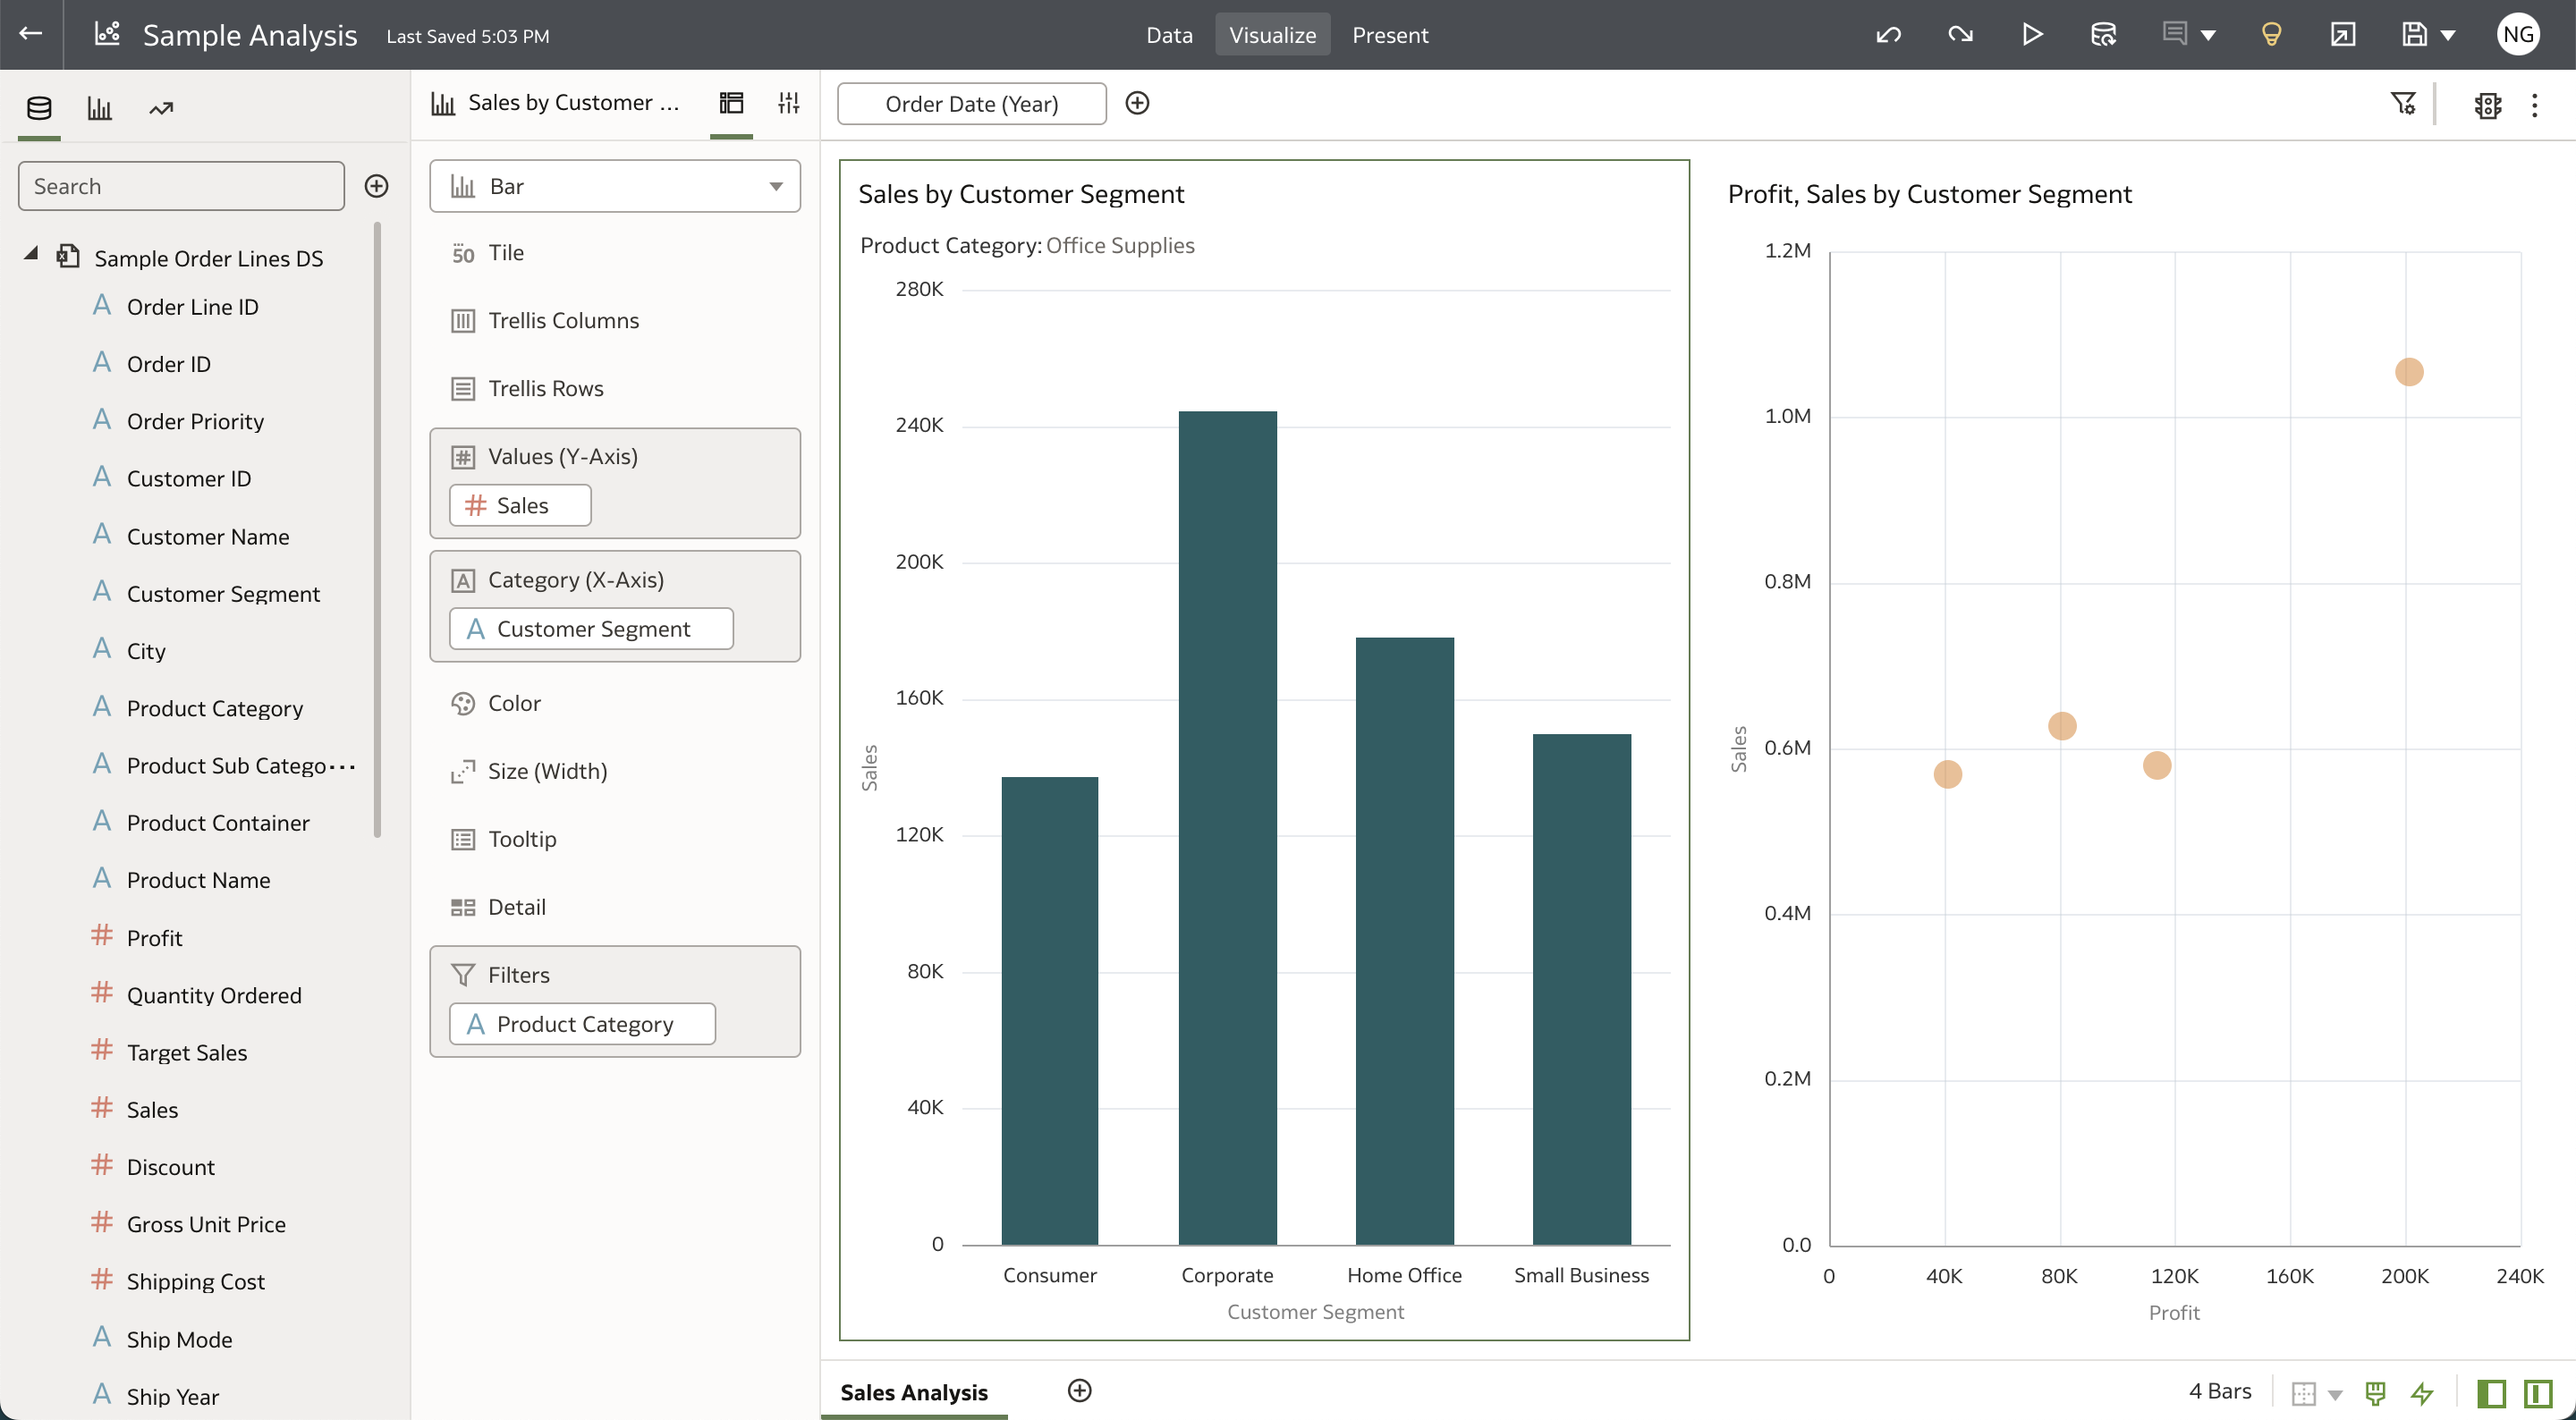
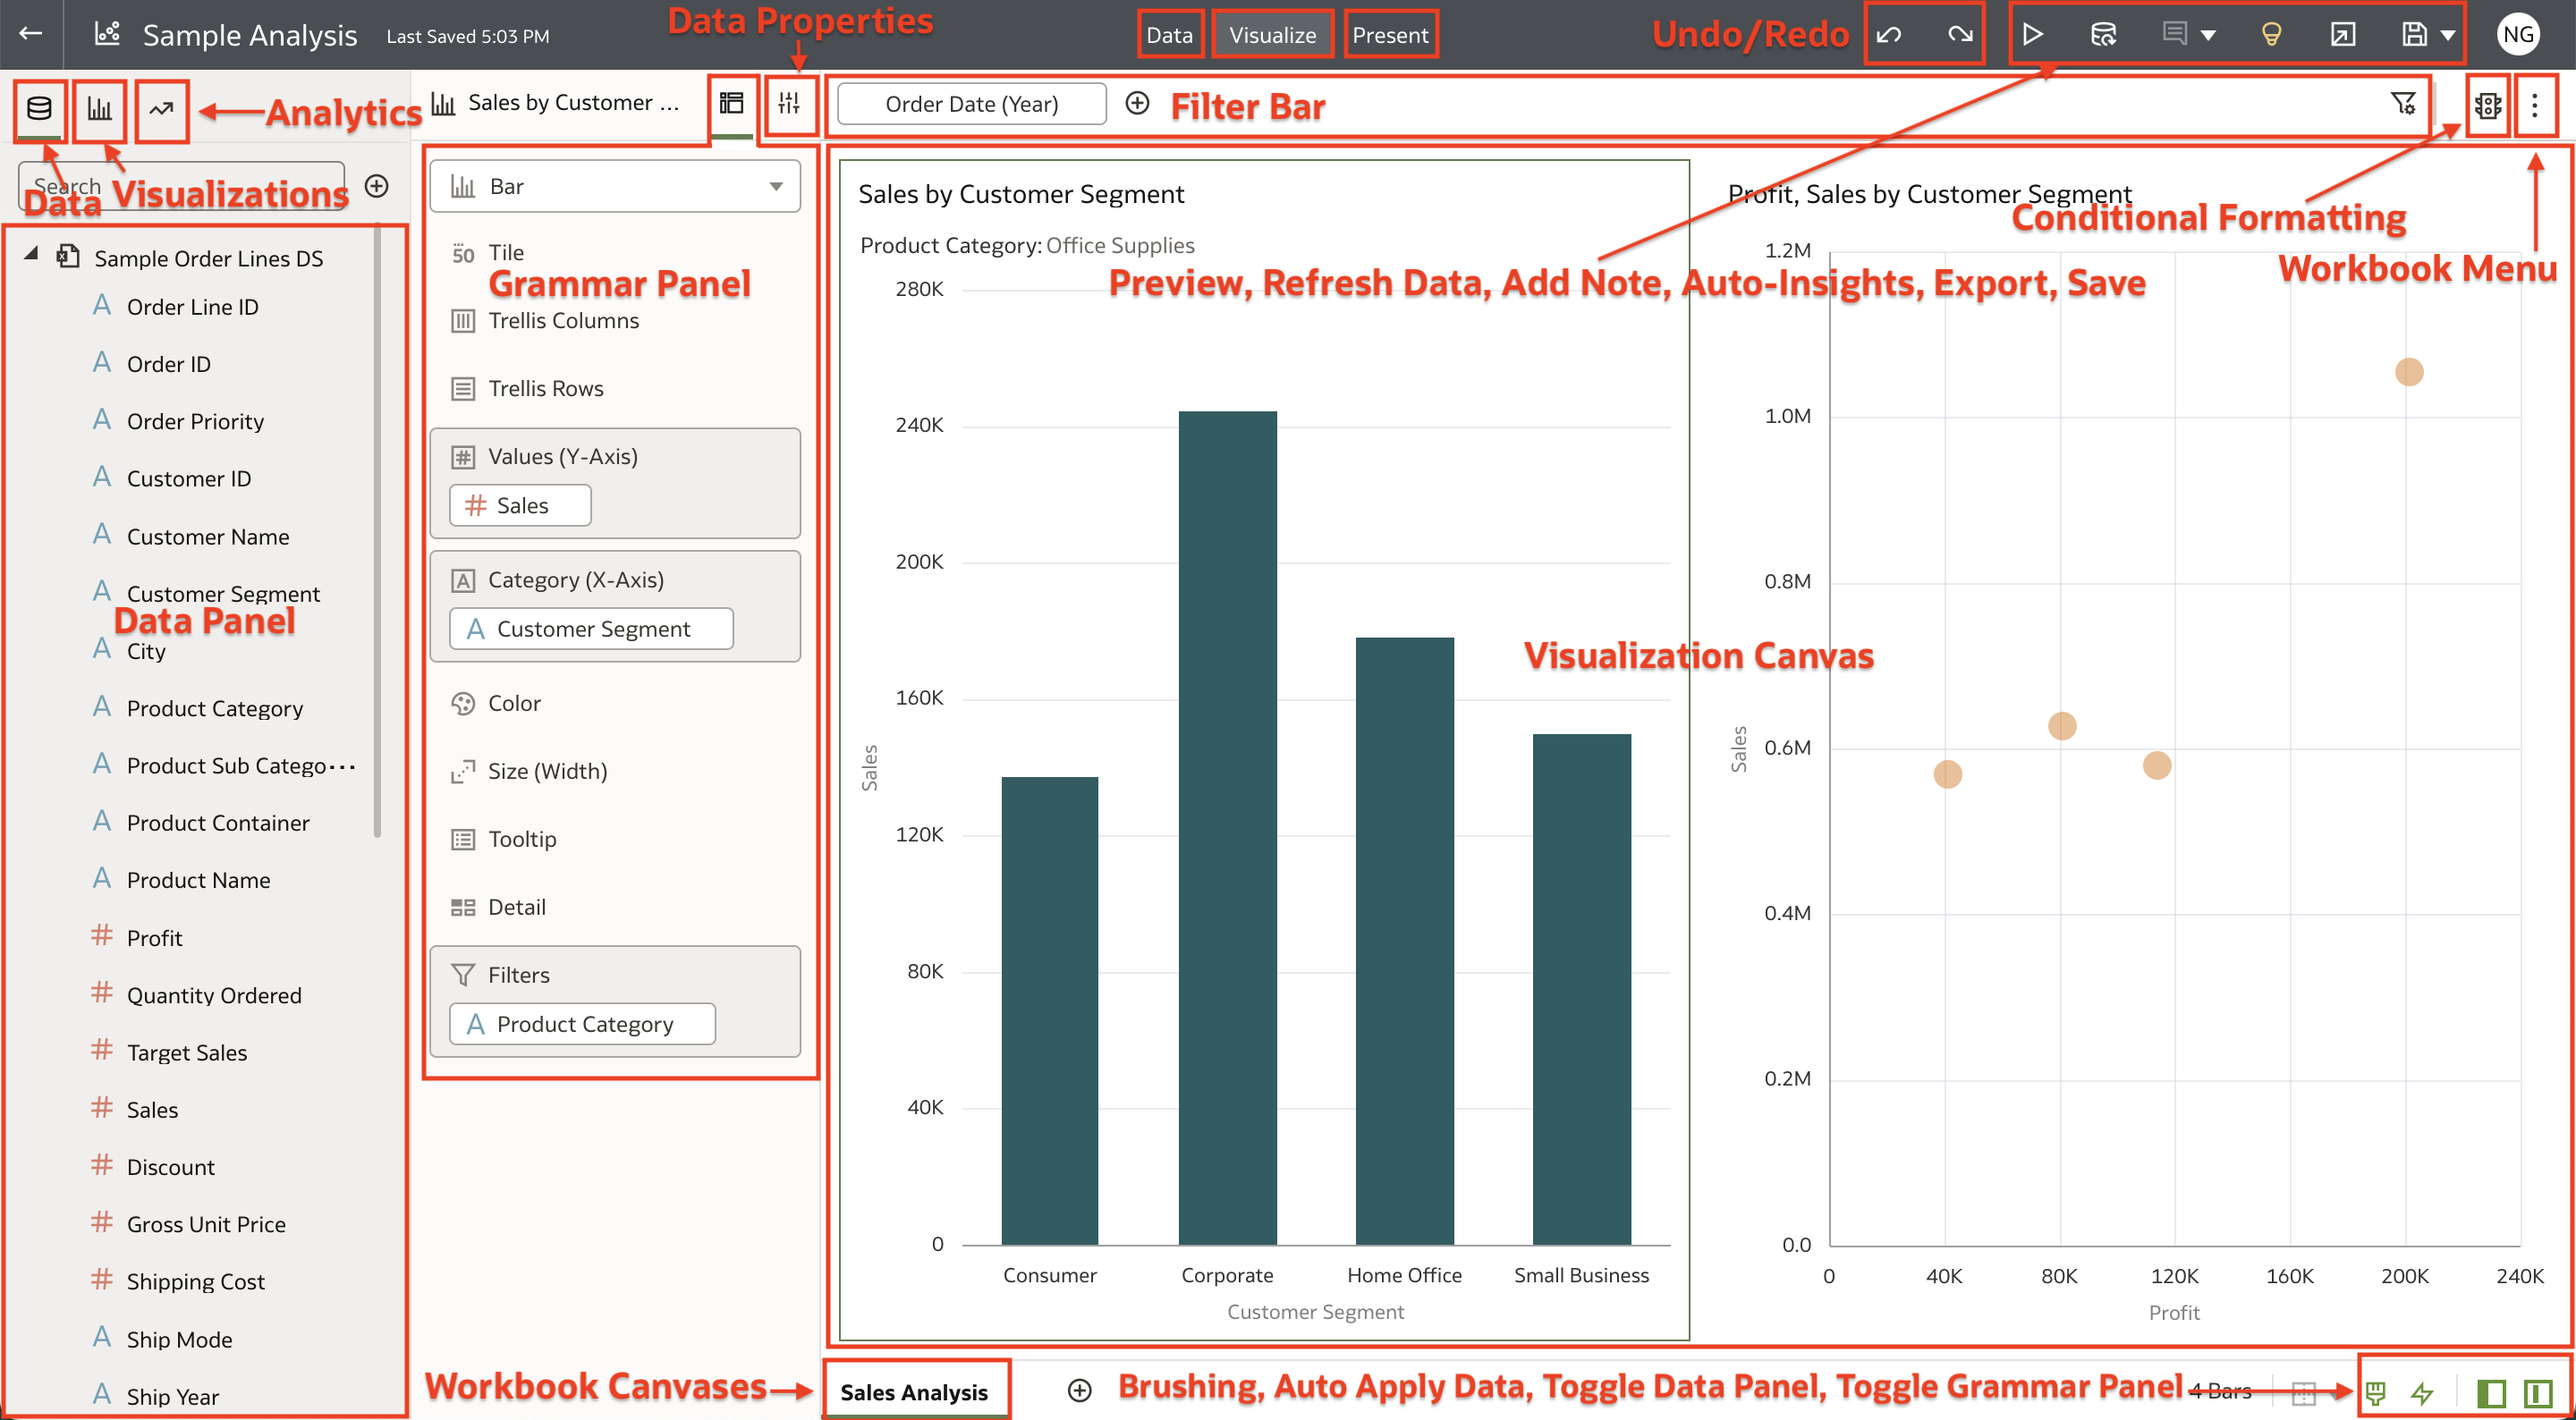
edits to basic dv

diff --git a/common-labs/basic-data-visualization/basic-data-visualization.md b/common-labs/basic-data-visualization/basic-data-visualization.md
@@ -4,7 +4,7 @@
 
 In this lab, you will learn how easy it is to create data visualizations in Oracle Analytics Cloud.
 
-  ![](images/)
+  ![](images/dv-overview.png)
 
 Estimated Time: __ minutes
 
@@ -21,7 +21,7 @@ This lab assumes you have:
 * Sample Order Lines DS dataset
 
 
-## Task 1: Basic data visualization
+## Task 1: Basic Data Visualization
 In this section, you will upload the Sample Order Lines DS and apply data transformations to enhance your dataset.
 
 1. Log in to your Oracle Analytics instance.
@@ -92,11 +92,12 @@ In this section, you will upload the Sample Order Lines DS and apply data transf
 
 You just learned how to create basic visualizations and filters in Oracle Analytics.
 
+
 ## Learn More
 * [Getting Started with Oracle Analytics Cloud](https://docs.oracle.com/en/cloud/paas/analytics-cloud/acsgs/what-is-oracle-analytics-cloud.html#GUID-E68C8A55-1342-43BB-93BC-CA24E353D873)
 * [About Visualizaton Types](https://docs.oracle.com/en/cloud/paas/analytics-cloud/acubi/visualization-types.html)
 
 ## Acknowledgements
 * Author - Nagwang Gyamtso, Product Manager, Analytics Product Strategy
-* Contributors -
+* Contributors - 
 * Last Updated By/Date -
